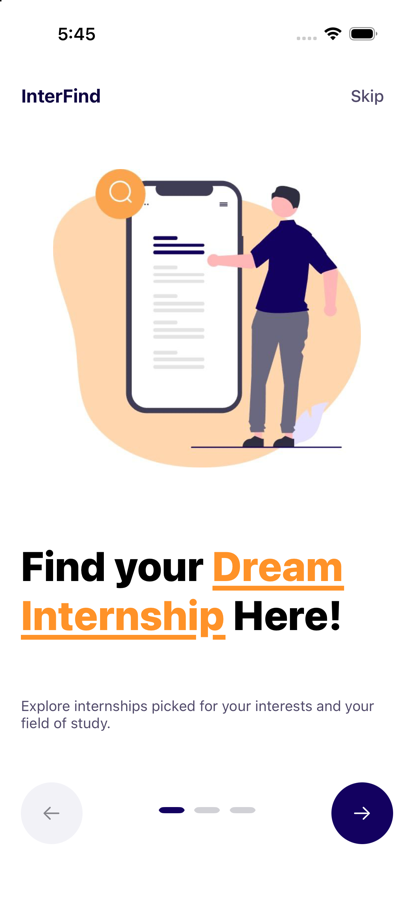
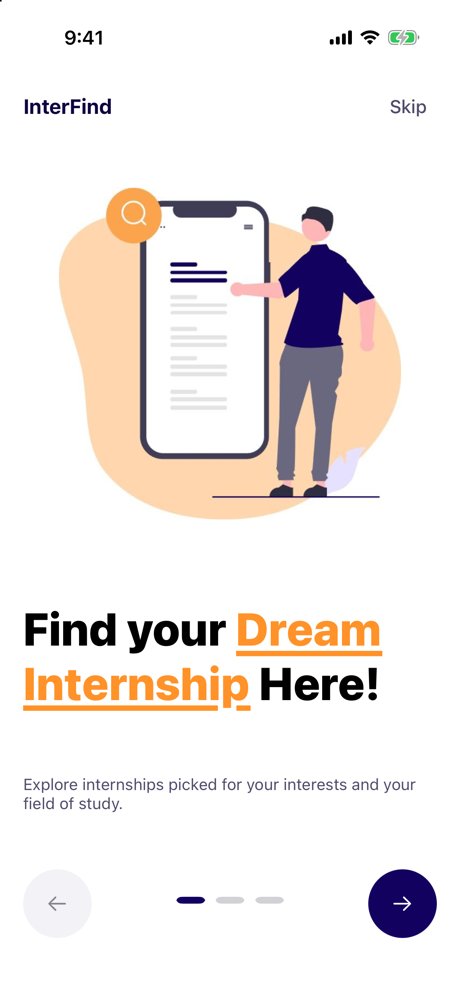
Add portfolio showcase and fresh screenshots
Clean 9:41 status bar captures of every main screen and a showcase
banner used at the top of the README.

diff --git a/docs/screenshots/showcase.html b/docs/screenshots/showcase.html
@@ -1,0 +1,28 @@
+<!doctype html><html><head><meta charset="utf-8"><style>
+html,body{margin:0}
+body{width:2400px;height:1350px;background:radial-gradient(circle at 80% 10%,#2a1590 0%,#130160 55%,#0b0040 100%);font-family:-apple-system,"SF Pro Display",Helvetica,sans-serif;color:#fff;overflow:hidden;position:relative}
+.copy{position:absolute;left:130px;top:50%;transform:translateY(-50%);width:620px}
+.copy img{height:96px}
+.copy h1{font-size:64px;line-height:1.08;margin:64px 0 28px;font-weight:800;letter-spacing:-1px}
+.copy h1 span{color:#FF9228}
+.copy p{font-size:30px;line-height:1.45;color:#cfc8f5;margin:0 0 40px}
+.tags{display:flex;flex-wrap:wrap;gap:14px}
+.tags div{font-size:24px;padding:10px 22px;border-radius:999px;background:rgba(255,255,255,.1);border:1px solid rgba(255,255,255,.18)}
+.phones{position:absolute;left:820px;top:255px;display:flex;gap:36px;align-items:flex-start}
+.phone{width:320px;border-radius:52px;padding:12px;background:#05001f;box-shadow:0 40px 80px rgba(0,0,0,.45),inset 0 0 0 2px rgba(255,255,255,.12)}
+.phone img{width:100%;display:block;border-radius:42px}
+.phone:nth-child(2){margin-top:80px}.phone:nth-child(3){margin-top:30px}.phone:nth-child(4){margin-top:100px}
+</style></head><body>
+<div class="copy">
+<img src="interfind-lockup-reversed.svg" alt="InterFind">
+<h1>Find the internship that <span>starts your career.</span></h1>
+<p>An offline-first iOS app for students: browse internships, save the ones you like and publish new ones, all stored on the device.</p>
+<div class="tags"><div>Swift</div><div>UIKit</div><div>Core Data</div><div>Keychain</div><div>Offline-first</div></div>
+</div>
+<div class="phones">
+<div class="phone"><img src="03-home.png"></div>
+<div class="phone"><img src="04-search.png"></div>
+<div class="phone"><img src="05-detail.png"></div>
+<div class="phone"><img src="06-saved.png"></div>
+</div>
+</body></html>

diff --git a/README.md b/README.md
@@ -7,10 +7,15 @@
 <p align="center">An offline-first iOS app for students looking for their first internship.</p>
 
 <p align="center">
-  <img src="docs/screenshots/01-onboarding.png" width="200" alt="Onboarding">
-  <img src="docs/screenshots/02-home.png" width="200" alt="Home">
-  <img src="docs/screenshots/03-search.png" width="200" alt="Search">
-  <img src="docs/screenshots/04-detail.png" width="200" alt="Internship detail">
+  <img src="docs/screenshots/showcase.png" alt="InterFind screens: home, search, internship detail and saved">
+</p>
+
+<p align="center">
+  <img src="docs/screenshots/01-onboarding.png" width="160" alt="Onboarding">
+  <img src="docs/screenshots/02-login.png" width="160" alt="Login">
+  <img src="docs/screenshots/03-home.png" width="160" alt="Home">
+  <img src="docs/screenshots/05-detail.png" width="160" alt="Internship detail">
+  <img src="docs/screenshots/07-profile.png" width="160" alt="Profile">
 </p>
 
 ## About
